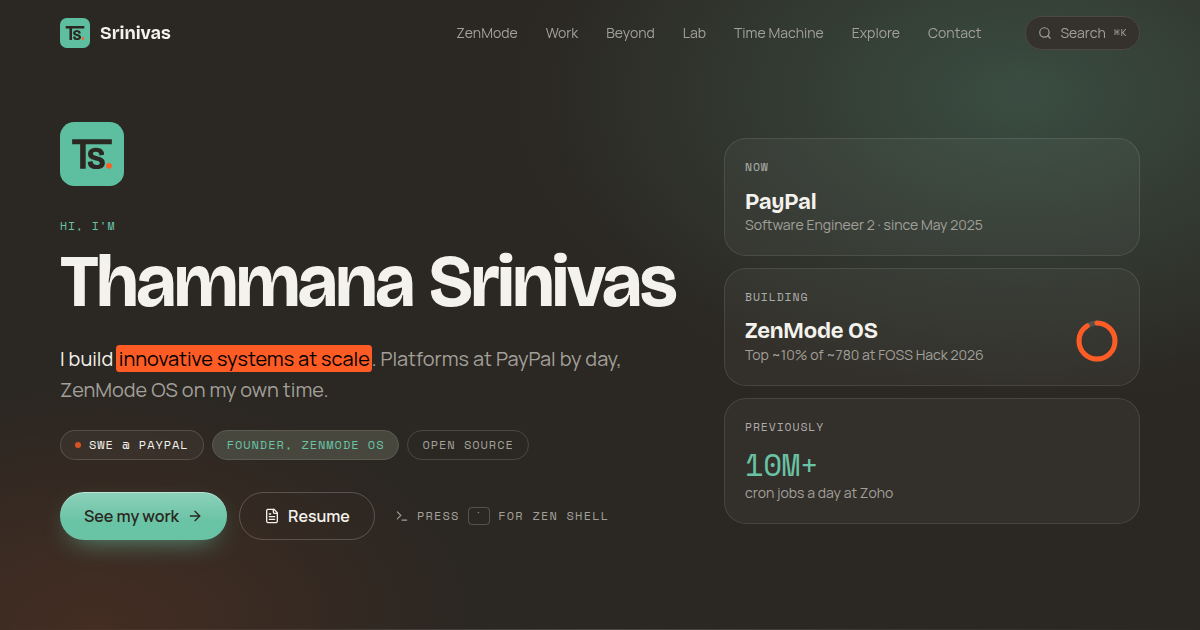
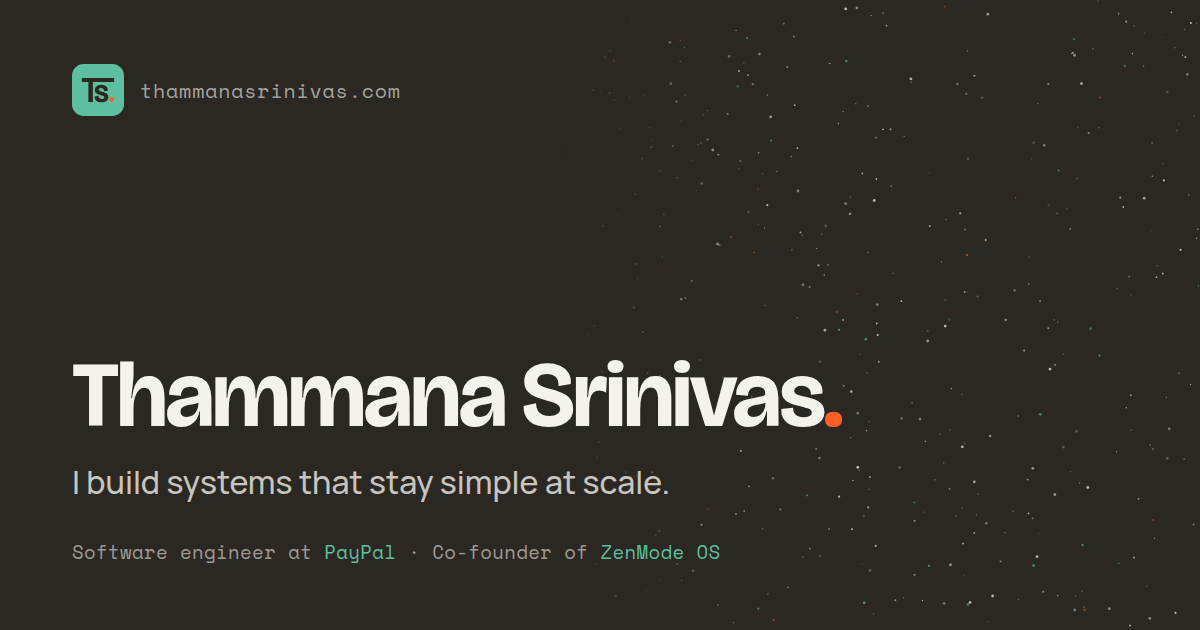
Review fixes: experience, education, portrait, current-role work, résumé links
From a Google recruiter / hiring-manager review of the live site:
- Hero states experience ("N+ years", computed from Jan 2022 so it never goes
  stale); Work gains an Education chapter (B.E. CSE, Anna University,
  CGPA 9.18, the AICTE Chhatra Vishwakarma Hackathon win + certificate).
- Portrait cropped like the LinkedIn photo, round on /about, and in a
  schema.org Person JSON-LD block on the home page (tested).
- PayPal: the knowledge base + cloud skill mapper (many teams, cloud
  migration and feature work; 5–6 bugs a day per engineer, single-prompt
  features, faster onboarding) on /work and as a second "Selected work"
  entry on Home.
- Write-up explains the 7,000 (a burst, often a customer's mistake) and why
  the cap holds (per-business worker capacity growing on demand to a limit),
  in behaviour terms only; 50 → 5 ms credited to cold-start work.
- Résumé stays on Google Drive: "Open in Drive" plus a direct "Download PDF"
  (Drive's export=download; saves as Thammana_Srinivas_Resume.pdf, no PDF
  viewer involved) on /about and in ⌘K.
- New site link-preview card (the old one showed the retired hero);
  Toolbox splits concepts from tech; "GPLv3" no longer shown as GPLV3.
- CLAUDE.md records the content rules (scheduler numbers, résumé, portrait).

diff --git a/src/data/profile.ts b/src/data/profile.ts
@@ -1,8 +1,14 @@
 // Single source for everything the page and the zen shell say about me.
 // Edit here; sections and shell commands both read from it.
 
-export const RESUME_URL =
-  'https://drive.google.com/file/d/1dl6EqMYEaTCljbrqoKPbaH48pccvPxcX/view?usp=sharing';
+/**
+ * The résumé lives on Google Drive (the owner updates that file; self-hosting was tried and parked).
+ * Two links to the same file: view it in Drive, or download it directly (Drive answers with
+ * `attachment; filename="Thammana_Srinivas_Resume.pdf"`, so no PDF viewer is involved).
+ */
+const RESUME_DRIVE_ID = '1dl6EqMYEaTCljbrqoKPbaH48pccvPxcX';
+export const RESUME_URL = `https://drive.google.com/file/d/${RESUME_DRIVE_ID}/view?usp=sharing`;
+export const RESUME_DOWNLOAD_URL = `https://drive.google.com/uc?export=download&id=${RESUME_DRIVE_ID}`;
 
 /** The site's own address (custom domain on Firebase Hosting; srinivas-t.web.app still serves). */
 export const SITE_URL = 'https://thammanasrinivas.com';
@@ -16,7 +22,11 @@ export const LINKS = {
   playstore: 'https://play.google.com/store/apps/details?id=com.zenlauncher.zenmode',
   producthunt: 'https://www.producthunt.com/products/zenmode-os-android-launcher',
   resume: RESUME_URL,
+  resumeDownload: RESUME_DOWNLOAD_URL,
 } as const;
+
+/** Full years since my first engineering role (Zoho, Jan 2022): computed, so the copy never goes stale. */
+export const YEARS_BUILDING = Math.floor((Date.now() - Date.UTC(2022, 0, 1)) / (365.25 * 864e5));
 
 export const PROFILE = {
   name: 'Thammana Srinivas',
@@ -31,7 +41,7 @@ export const PROFILE = {
    * sits beside the live scheduler model and carries the page's one highlighter.
    */
   bio: {
-    intro: 'Software engineer at [PayPal](/work), working on multi-tenancy and cloud migration. Co-founder of [ZenMode OS](/zenmode).',
+    intro: `Software engineer at [PayPal](/work) with ${YEARS_BUILDING}+ years of building backend platforms: multi-tenancy, cloud migration, distributed schedulers. Co-founder of [ZenMode OS](/zenmode).`,
     zoho: {
       before: 'Before PayPal, at Zoho, I designed [the job scheduler behind Catalyst](/writing/scheduling-10m-cron-jobs), Zoho’s serverless platform. It took cron jobs from once an hour to every minute, for every user, and ',
       mark: 'one if-condition cut its Kafka traffic from 7,000 messages a cycle to 32',
@@ -42,6 +52,8 @@ export const PROFILE = {
     'I build cloud platforms by day and a calmer phone by night. At PayPal I work on multi-tenant platforms and cloud migration. On my own time I build ZenMode OS, an open-source Android launcher that helps people scroll less, together.',
   email: 'srinivas@thammanasrinivas.com',
   location: 'Chennai, India',
+  /** Headshot (cropped like the LinkedIn photo), shown round on /about and in search results. */
+  portrait: '/about/srinivas.webp',
 };
 
 export interface Job {
@@ -134,6 +146,7 @@ export const JOBS: Job[] = [
     current: true,
     story: [
       'I work on the Simplified Case Management (SCM) platform. I implemented multi-tenancy across it and built the SCM-Commons onboarding that cut new-tenant onboarding time by 40%. I took a mission-critical notification API up three levels on the Richardson Maturity Model without a single breaking change for its consumers, and moved data and workloads from on-prem to GCP, including onboarding a SaaS-native solution through RAMP.',
+      'Most recently I built a [knowledge base and cloud skill mapper](https://www.linkedin.com/feed/update/urn:li:activity:7496050634371178496/) that many teams now use for cloud migration and cloud feature development. With it, an engineer fixes 5–6 bugs a day, a feature is often a single prompt, and juniors get up to speed on the team much faster.',
       'I also ran a Bigtable proof of concept, benchmarking 500K+ records with secondary indexes. It showed Bigtable didn’t fit our relational model, which saved a costly redesign. And I build LLM-powered tools that replace manual SOPs: a code-review agent, a parallel git-worktree feature processor and an integration-test agent.',
     ],
   },
@@ -144,7 +157,7 @@ export const JOBS: Job[] = [
     period: 'Jan 2022 — Apr 2025',
     current: false,
     story: [
-      'I worked on Catalyst, Zoho’s serverless platform. I designed its distributed job scheduler on Kafka and Redis: it took the shortest cron interval from an hour to a minute for every user, handled 10M+ jobs a day, and brought job dispatch latency from 50 ms to 5 ms.',
+      'I worked on Catalyst, Zoho’s serverless platform. I designed its distributed job scheduler on Kafka and Redis: it took the shortest cron interval from an hour to a minute for every user, handled 10M+ jobs a day, and brought job dispatch latency from 50 ms to 5 ms by optimising cold starts.',
       'I also built a HIPAA-compliant audit-log service in a month, which unblocked the European release and grew revenue by 17%; an adapter between Catalyst and Zoho Cron for custom cron expressions that reached 35% adoption in three months; and error alerting by feature context that cut issue resolution time by 30–40%. As a project trainee I added environment variables for functions, which addressed 60% of user tickets, and Node.js 16 support with 12% faster cold starts.',
     ],
     writeup: 'scheduling-10m-cron-jobs',
@@ -152,9 +165,28 @@ export const JOBS: Job[] = [
   },
 ];
 
+/** The latest thing I shipped at PayPal, for the home page (its numbers live on /work). */
+export const RECENT = {
+  meta: 'PayPal · Aug 2026',
+  title: 'Knowledge base + cloud skill mapper',
+  body: 'Used by many teams at PayPal for cloud migration and cloud feature development. Bug fixes got dramatically faster, features often take a single prompt, and juniors onboard faster.',
+  post: 'https://www.linkedin.com/feed/update/urn:li:activity:7496050634371178496/',
+} as const;
+
+/** From the résumé. */
+export const EDUCATION = {
+  degree: 'B.E. in Computer Science and Engineering',
+  school: 'Anna University, Chennai',
+  period: '2018 — 2022',
+  grade: 'CGPA 9.18',
+  prize: 'Won the AICTE Chhatra Vishwakarma Hackathon with a mental-health and psychosocial support app.',
+  prizeUrl: 'https://drive.google.com/file/d/1pBWq6m5oIzMCK_uzAKlXQQR1xRPm2v84/view',
+} as const;
+
 export const TOOLBOX: { group: string; items: string[] }[] = [
-  { group: 'Backend', items: ['Java', 'Spring Boot', 'Golang', 'Kafka', 'Redis', 'PostgreSQL', 'Distributed systems'] },
-  { group: 'Cloud', items: ['GCP', 'Bigtable', 'Docker', 'Kubernetes', 'Serverless', 'Cloud migration', 'Multi-tenancy'] },
+  { group: 'Systems', items: ['Distributed systems', 'Multi-tenancy', 'Cloud migration', 'Serverless', 'System design'] },
+  { group: 'Backend', items: ['Java', 'Spring Boot', 'Golang', 'Kafka', 'Redis', 'PostgreSQL'] },
+  { group: 'Cloud', items: ['GCP', 'Bigtable', 'Docker', 'Kubernetes'] },
   { group: 'Android', items: ['Kotlin', 'Jetpack Compose', 'Firebase', 'Cloud Functions'] },
   { group: 'AI + Web', items: ['LLM agents', 'RAG', 'MCP', 'TypeScript', 'React', 'Node.js', 'Python'] },
 ];

diff --git a/src/site/meta.ts b/src/site/meta.ts
@@ -3,7 +3,7 @@
 //   runtime  usePageMeta applies it on every navigation (browser tabs, and Google, which runs the JS)
 //   build    the prerender plugin (scripts/prerender.ts) writes one HTML file per URL with it baked
 //            in, because link previews (LinkedIn, WhatsApp, Slack, X) read the HTML and never run JS
-import { PROFILE, SITE_URL } from '@/data/profile';
+import { EDUCATION, JOBS, LINKS, PROFILE, SITE_URL } from '@/data/profile';
 import { PUBLISHED_ARTICLES, type Article } from '@/content/writing';
 import { plain } from '@/lib/rich';
 import { PAGES, type SitePage } from './pages';
@@ -43,6 +43,26 @@ export const ROUTE_META: Meta[] = [
   ...(live.some((p) => p.path === '/writing') ? PUBLISHED_ARTICLES.map(articleMeta) : []),
 ];
 
+const current = JOBS.find((j) => j.current) ?? JOBS[0];
+
+/**
+ * Who the site is about, for search engines (schema.org Person, as JSON-LD on the home page): the
+ * same facts the page shows, so a search for the name can show a photo, role and profiles.
+ */
+export const PERSON_LD = {
+  '@context': 'https://schema.org',
+  '@type': 'Person',
+  name: PROFILE.name,
+  url: `${SITE_URL}/`,
+  image: `${SITE_URL}${PROFILE.portrait}`,
+  jobTitle: current.role,
+  worksFor: { '@type': 'Organization', name: current.company },
+  alumniOf: { '@type': 'CollegeOrUniversity', name: EDUCATION.school.split(',')[0] },
+  address: { '@type': 'PostalAddress', addressLocality: PROFILE.location.split(',')[0], addressCountry: 'IN' },
+  email: LINKS.email,
+  sameAs: [LINKS.linkedin, LINKS.github],
+};
+
 /** The tags in index.html that carry a page's meta, and which field fills each. */
 const TAGS: { tag: 'meta' | 'link'; key: 'name' | 'property' | 'rel'; id: string; attr: 'content' | 'href'; value: (m: Meta) => string }[] = [
   { tag: 'meta', key: 'name', id: 'description', attr: 'content', value: (m) => m.description },
@@ -77,6 +97,11 @@ export function applyMetaToHtml(html: string, m: Meta): string {
     return src.replace(re, () => to);
   };
   let out = swap(html, /<title>[^<]*<\/title>/g, `<title>${escHtml(m.title)}</title>`);
+  if (m.path === '/') {
+    // a JSON data block (never executed, so the CSP's script-src does not apply); < escaped for safety
+    const ld = JSON.stringify(PERSON_LD).replace(/</g, '\\u003c');
+    out = swap(out, /<\/head>/g, `<script type="application/ld+json">${ld}</script></head>`);
+  }
   for (const t of TAGS) {
     const head = `<${t.tag} ${t.key}="${t.id}" ${t.attr}="`;
     out = swap(out, new RegExp(`${escRe(head)}[^"]*"`, 'g'), `${head}${escHtml(t.value(m))}"`);

diff --git a/src/site/pages.ts b/src/site/pages.ts
@@ -7,7 +7,7 @@
 // To add a page: add an entry below (shell included, or it won't type-check), map its component
 // in routes.tsx (also type-checked), done. The menu follows the order here; `nav: false` keeps a
 // page out of the menu (still routed, in the sitemap, the shell and ⌘K).
-import { BEYOND, JOBS, JOURNEY, LAB, LINKS, PRINCIPLES, PROFILE, SPEAKING, TOOLBOX, ZENMODE, formatDate } from '@/data/profile';
+import { BEYOND, EDUCATION, JOBS, JOURNEY, LAB, LINKS, PRINCIPLES, PROFILE, SPEAKING, TOOLBOX, ZENMODE, formatDate } from '@/data/profile';
 import { POSTS, PUBLISHED } from '@/content/writing';
 import { plain } from '@/lib/rich';
 
@@ -55,14 +55,15 @@ const DEFS = [
     shell: [
       {
         name: 'work',
-        files: Object.fromEntries(
-          JOBS.map((j) => [
-            `${j.id}.md`,
-            {
-              body: md(`# ${j.company}: ${j.role} (${j.period})`, '', ...j.story.flatMap((para) => [para, '']), j.earlier),
-            },
-          ])
-        ),
+        files: {
+          ...Object.fromEntries(
+            JOBS.map((j) => [`${j.id}.md`, { body: md(`# ${j.company}: ${j.role} (${j.period})`, '', ...j.story.flatMap((para) => [para, '']), j.earlier) }])
+          ),
+          'education.md': {
+            body: md(`# ${EDUCATION.degree}`, `${EDUCATION.school} (${EDUCATION.period}) · ${EDUCATION.grade}`, '', EDUCATION.prize),
+            url: EDUCATION.prizeUrl,
+          },
+        },
       },
       {
         name: 'how-i-build',
@@ -112,7 +113,7 @@ const DEFS = [
     path: '/zenmode',
     label: 'ZenMode',
     title: 'ZenMode OS',
-    lead: 'What I build on my own time: a launcher that makes your phone calmer, kept together with friends.',
+    lead: 'What I build on my own time with my co-founder, Kamalraaj: a launcher that makes your phone calmer, with friends keeping each other on track.',
     shell: [
       {
         name: 'zenmode',

diff --git a/src/components/About.tsx b/src/components/About.tsx
@@ -1,5 +1,5 @@
 import React, { useState } from 'react';
-import { ArrowUpRight, Check, Copy } from 'lucide-react';
+import { ArrowUpRight, Check, Copy, Download } from 'lucide-react';
 import { BEYOND, LINKS, PROFILE, SPEAKING } from '@/data/profile';
 import { Chapter, Marker } from '@/components/zen/primitives';
 
@@ -62,7 +62,6 @@ const Contact: React.FC = () => {
   const rows = [
     { label: 'LinkedIn', href: LINKS.linkedin, value: handleOf(LINKS.linkedin) },
     { label: 'GitHub', href: LINKS.github, value: handleOf(LINKS.github) },
-    { label: 'Résumé', href: LINKS.resume, value: 'PDF on Google Drive' },
   ];
   return (
     <Chapter id="contact" label="Get in touch">
@@ -95,6 +94,22 @@ const Contact: React.FC = () => {
             </dd>
           </div>
         ))}
+        {/* the résumé: open it in Drive, or download it straight away (no PDF viewer in between) */}
+        <div className="grid gap-1 py-4 md:grid-cols-[minmax(0,260px)_minmax(0,1fr)] md:items-center md:gap-8">
+          <dt className="font-semibold">Résumé</dt>
+          <dd className="flex flex-wrap items-center gap-x-5 gap-y-2">
+            <a href={LINKS.resume} target="_blank" rel="noopener noreferrer" className="zen-link inline-flex items-center gap-1 text-muted-foreground">
+              Open in Drive <ArrowUpRight className="h-3.5 w-3.5" />
+            </a>
+            <a
+              href={LINKS.resumeDownload}
+              rel="noopener noreferrer"
+              className="inline-flex items-center gap-1 rounded-full border px-2.5 py-1 text-small text-muted-foreground transition-colors hover:text-foreground"
+            >
+              <Download className="h-3.5 w-3.5" /> Download PDF
+            </a>
+          </dd>
+        </div>
       </dl>
     </Chapter>
   );

diff --git a/src/pages/Home.tsx b/src/pages/Home.tsx
@@ -6,7 +6,7 @@ import { DIAGRAMS } from '@/components/diagrams';
 import HeroSky from '@/components/HeroSky';
 import PostList from '@/components/PostList';
 import { POSTS, minutesOf, postFor } from '@/content/writing';
-import { LINKS, PROFILE, SKY, SPEAKING, ZENMODE } from '@/data/profile';
+import { LINKS, PROFILE, RECENT, SKY, SPEAKING, ZENMODE } from '@/data/profile';
 import { usePageMeta } from '@/lib/usePageMeta';
 import { HOME_META } from '@/site/meta';
 
@@ -102,6 +102,21 @@ const Home: React.FC = () => {
           <Suspense fallback={<div className="zen-card h-[460px]" aria-hidden />}>
             <Model className="mt-0" />
           </Suspense>
+        </Reveal>
+
+        {/* the current role, smaller: what I shipped at PayPal most recently */}
+        <Reveal className="mt-14 border-t pt-8">
+          <p className="text-small text-muted-foreground">{RECENT.meta}</p>
+          <h3 className="mt-2 text-h2">{RECENT.title}</h3>
+          <p className="mt-3 max-w-[60ch] text-muted-foreground">{RECENT.body}</p>
+          <div className="mt-4 flex flex-wrap items-baseline gap-x-6 gap-y-2">
+            <Link to="/work" className="zen-link inline-flex items-center gap-1.5 font-semibold">
+              More at PayPal <ArrowRight className="h-4 w-4" />
+            </Link>
+            <a href={RECENT.post} target="_blank" rel="noopener noreferrer" className="zen-link inline-flex items-center gap-1 text-muted-foreground">
+              The LinkedIn post <ArrowUpRight className="h-3.5 w-3.5" />
+            </a>
+          </div>
         </Reveal>
       </Chapter>
 

diff --git a/src/components/zen/primitives.tsx b/src/components/zen/primitives.tsx
@@ -139,12 +139,23 @@ export const Marker: React.FC<{ children: React.ReactNode; delay?: number }> = (
 };
 
 /** Top of every inner page: the title, and one line on what the page is for. */
-export const PageHeader: React.FC<{ title: string; lead: string; children?: React.ReactNode }> = ({ title, lead, children }) => (
+export const PageHeader: React.FC<{ title: string; lead: string; aside?: React.ReactNode; children?: React.ReactNode }> = ({
+  title,
+  lead,
+  aside,
+  children,
+}) => (
   <header className="mx-auto w-full max-w-[1120px] px-5 pb-4 pt-32 md:pt-40">
-    <h1 className="max-w-4xl text-title">
-      <Rich text={title} />
-    </h1>
-    <p className="mt-5 max-w-2xl text-lead text-muted-foreground">{lead}</p>
+    {/* an aside (e.g. the portrait on /about) sits above the title on phones, to its right on wide screens */}
+    <div className={aside ? 'flex flex-col gap-6 md:flex-row md:items-center md:justify-between md:gap-10' : ''}>
+      <div>
+        <h1 className="max-w-4xl text-title">
+          <Rich text={title} />
+        </h1>
+        <p className="mt-5 max-w-2xl text-lead text-muted-foreground">{lead}</p>
+      </div>
+      {aside && <div className="order-first shrink-0 md:order-none">{aside}</div>}
+    </div>
     {children}
   </header>
 );

diff --git a/src/site/meta.test.ts b/src/site/meta.test.ts
@@ -1,7 +1,7 @@
 import { existsSync, readFileSync } from 'node:fs';
 import { describe, expect, it } from 'vitest';
 import { SITE_URL } from '@/data/profile';
-import { ROUTE_META, applyMetaToHtml, type Meta } from './meta';
+import { PERSON_LD, ROUTE_META, applyMetaToHtml, type Meta } from './meta';
 
 const indexHtml = readFileSync('index.html', 'utf8');
 
@@ -33,6 +33,14 @@ describe('page meta (link previews)', () => {
       expect(html).toContain(`<meta property="og:type" content="${m.type}"`);
       expect(html.match(/<title>/g)).toHaveLength(1);
     }
+  });
+
+  it('tells search engines who the site is about, on the home page only, with a photo that ships', () => {
+    const home = applyMetaToHtml(indexHtml, ROUTE_META[0]);
+    const block = home.match(/<script type="application\/ld\+json">(.*?)<\/script>/)?.[1];
+    expect(JSON.parse(block!)).toMatchObject({ '@type': 'Person', name: PERSON_LD.name, sameAs: expect.arrayContaining([expect.stringContaining('linkedin.com')]) });
+    expect(existsSync(`public${PERSON_LD.image.slice(SITE_URL.length)}`)).toBe(true);
+    expect(applyMetaToHtml(indexHtml, ROUTE_META[1])).not.toContain('application/ld+json');
   });
 
   it('escapes text so a quote in a summary cannot break the HTML', () => {

diff --git a/src/components/CommandPalette.tsx b/src/components/CommandPalette.tsx
@@ -13,7 +13,7 @@ import { LAB, LINKS } from '@/data/profile';
 import { PAGES } from '@/site/pages';
 import { emitZen } from '@/lib/zenEvents';
 import { sound, useSound } from '@/lib/sound';
-import { Github, Hash, FileText, ExternalLink, Terminal, Volume2, VolumeX } from 'lucide-react';
+import { Download, Github, Hash, FileText, ExternalLink, Terminal, Volume2, VolumeX } from 'lucide-react';
 
 interface CommandPaletteProps {
   open?: boolean;
@@ -97,8 +97,12 @@ const CommandPalette: React.FC<CommandPaletteProps> = ({ open: controlledOpen, o
           </CommandItem>
           <CommandItem onSelect={() => openUrl(LINKS.resume)}>
             <FileText className="mr-2 h-4 w-4" />
-            <span>View resume</span>
+            <span>View résumé</span>
             <ExternalLink className="ml-auto h-3 w-3 text-muted-foreground" />
+          </CommandItem>
+          <CommandItem onSelect={() => run(() => (window.location.href = LINKS.resumeDownload))}>
+            <Download className="mr-2 h-4 w-4" />
+            <span>Download résumé (PDF)</span>
           </CommandItem>
         </CommandGroup>
       </CommandList>

diff --git a/src/components/Education.tsx b/src/components/Education.tsx
@@ -1,0 +1,22 @@
+import React from 'react';
+import { ArrowUpRight } from 'lucide-react';
+import { EDUCATION } from '@/data/profile';
+import { Chapter } from '@/components/zen/primitives';
+
+/** Degree, grade and the hackathon win from college: what a recruiter checks right after roles. */
+const Education: React.FC = () => (
+  <Chapter id="education" label="Education">
+    <h3 className="text-h3">{EDUCATION.degree}</h3>
+    <p className="mt-1 text-muted-foreground">
+      {EDUCATION.school} · {EDUCATION.period} · {EDUCATION.grade}
+    </p>
+    <p className="mt-4 max-w-[60ch]">
+      {EDUCATION.prize}{' '}
+      <a href={EDUCATION.prizeUrl} target="_blank" rel="noopener noreferrer" className="zen-link inline-flex items-center gap-1 text-muted-foreground">
+        Certificate <ArrowUpRight className="h-3.5 w-3.5" />
+      </a>
+    </p>
+  </Chapter>
+);
+
+export default Education;

diff --git a/src/components/WorkExperience.tsx b/src/components/WorkExperience.tsx
@@ -5,6 +5,7 @@ import { Link } from '@/components/zen/Link';
 import { JOBS, type Job } from '@/data/profile';
 import { postFor } from '@/content/writing';
 import { plain } from '@/lib/rich';
+import { LinkedText } from '@/components/zen/primitives';
 
 /**
  * A role: dates in the margin, the story in prose. Its node on the timeline fills as you arrive.
@@ -33,7 +34,9 @@ const Role: React.FC<{ j: Job }> = ({ j }) => {
         <p className="mt-1 text-muted-foreground">{j.role}</p>
         <div className="mt-5 grid gap-4">
           {j.story.map((para) => (
-            <p key={para.slice(0, 24)}>{para}</p>
+            <p key={para.slice(0, 24)}>
+              <LinkedText text={para} />
+            </p>
           ))}
         </div>
         {post && (

diff --git a/src/lib/zenshell.test.ts b/src/lib/zenshell.test.ts
@@ -22,7 +22,7 @@ describe('zen shell', () => {
     expect(cd.cwd).toBe('~/work');
     expect(cd.effect).toEqual({ type: 'go', to: '/work' });
     const inWork = { history: [], cwd: '~/work' };
-    expect(runCommand('ls', inWork).lines.map((l) => ('text' in l ? l.text : ''))).toEqual(['paypal.md', 'zoho.md']);
+    expect(runCommand('ls', inWork).lines.map((l) => ('text' in l ? l.text : ''))).toEqual(['paypal.md', 'zoho.md', 'education.md']);
     expect(runCommand('cat paypal.md', inWork).lines[0]).toEqual({ kind: 'accent', text: expect.stringContaining('PayPal') });
     expect(runCommand('cat ../about.md', inWork).lines[0]).toEqual({ kind: 'accent', text: expect.stringContaining('Thammana') });
     expect(runCommand('cd ..', inWork).cwd).toBe('~');

diff --git a/src/components/zen/Page.tsx b/src/components/zen/Page.tsx
@@ -6,12 +6,12 @@ import { PageHeader } from './primitives';
 import NextPage from './NextPage';
 
 /** An inner page: meta, header from the site map, the content, then a pointer to the next page in the menu. */
-const Page: React.FC<{ id: PageId; children: React.ReactNode }> = ({ id, children }) => {
+const Page: React.FC<{ id: PageId; aside?: React.ReactNode; children: React.ReactNode }> = ({ id, aside, children }) => {
   const page = pageFor(id);
   usePageMeta(pageMeta(page));
   return (
     <>
-      <PageHeader title={page.title} lead={page.lead} />
+      <PageHeader title={page.title} lead={page.lead} aside={aside} />
       {children}
       <NextPage after={id} />
     </>
